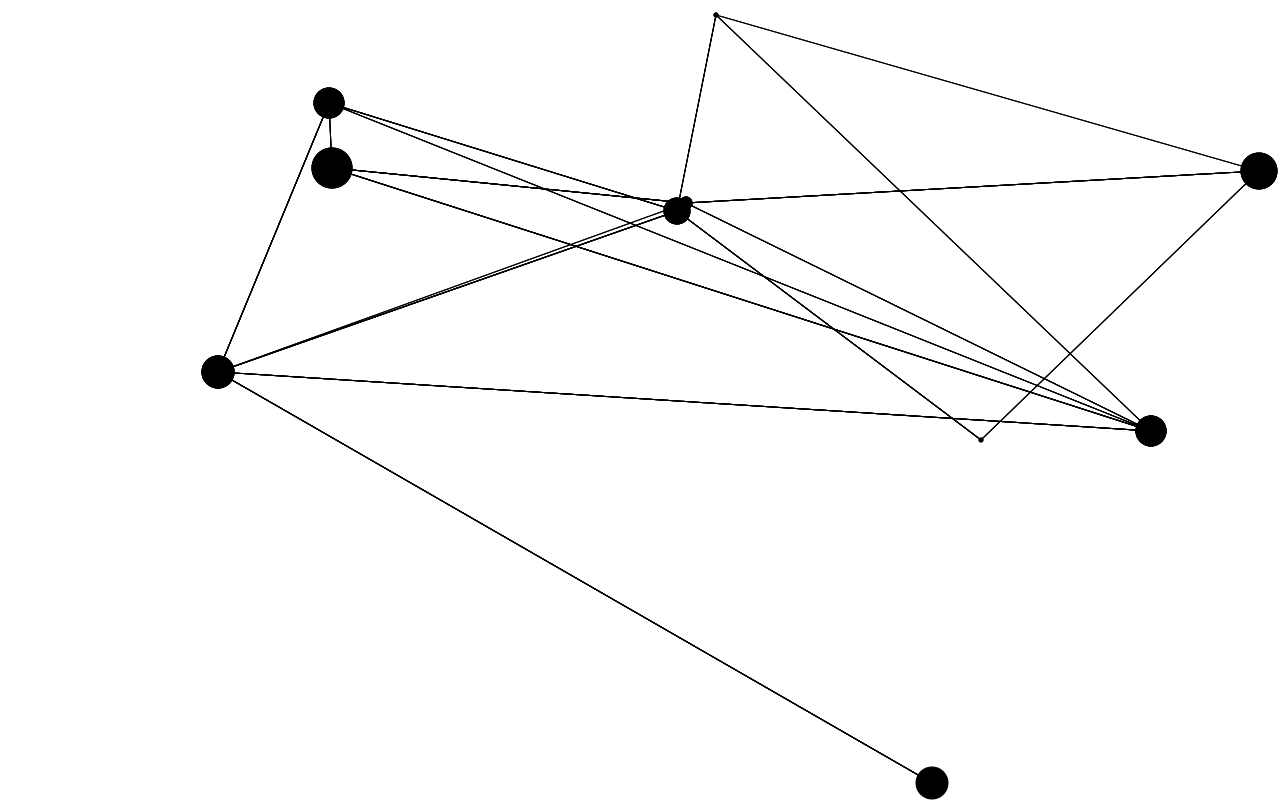
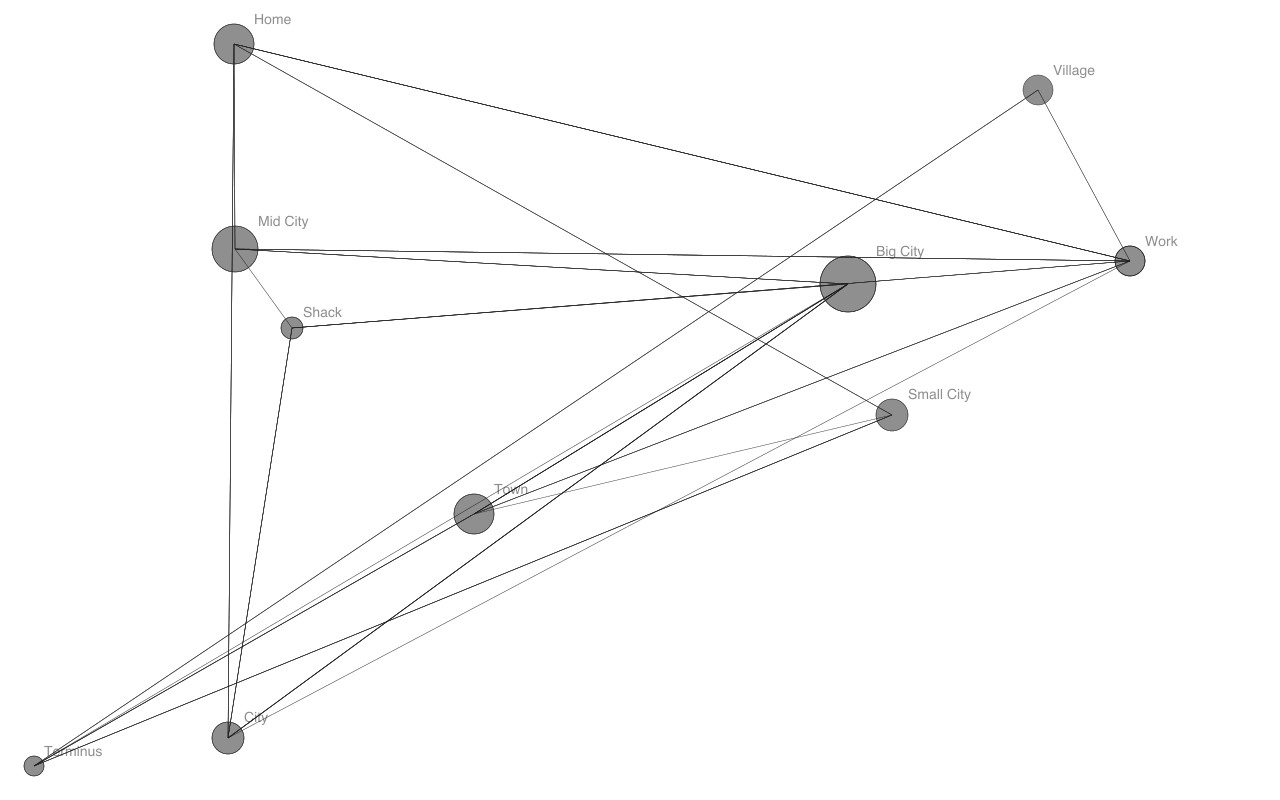
added names

diff --git a/createMap.js b/createMap.js
@@ -31,15 +31,20 @@ for (var route in routes){
 	};
 
 	var location = routes[route];
-
+	ctx.fillStyle = 'rgba(32,32,32,0.5)';
 	ctx.beginPath();
 	ctx.arc(location.location.x, location.location.y, location.size, 0, Math.PI*2, true); 	
 	ctx.closePath();
+	ctx.font = '14px Helvetica Neue';
+	
+	ctx.fillText(route, location.location.x+location.size, location.location.y-location.size);
+
 	for (var connection in location.connections){
 		if (!location.connections.hasOwnProperty(connection)) {
 			continue;
 		};
-
+		ctx.lineWidth = '0.5';
+		ctx.strokeStyle = 'rgba(32,32,32,0.5)';
 		ctx.moveTo(location.location.x, location.location.y);
 		ctx.lineTo(routes[connection].location.x,routes[connection].location.y);
 		ctx.stroke();

diff --git a/lib/Location.js b/lib/Location.js
@@ -2,7 +2,7 @@
 
 var Location = function(name, x, y, size){
 	this.name = name;
-	this.size = size || Math.floor(Math.random()*20)+1;
+	this.size = size || Math.floor(Math.random()*20)+10;
 	this.location = {
 		x: x || Math.floor(Math.random()*1280),
 		y: y || Math.floor(Math.random()*800)
